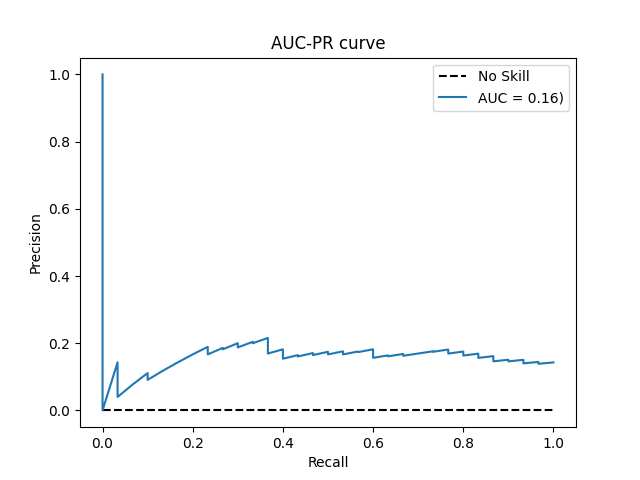
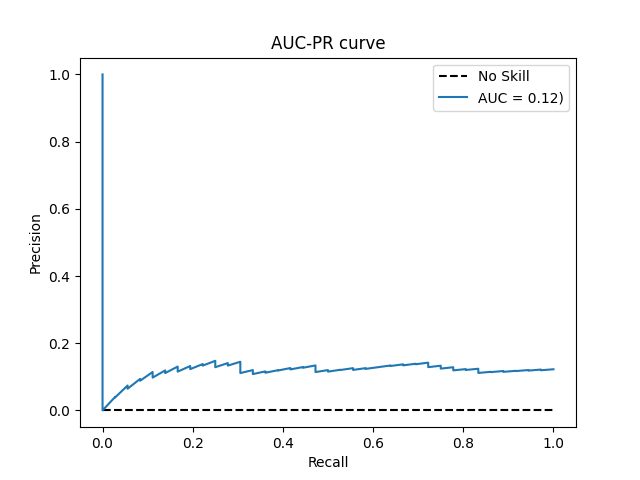
Bug inferencia imagenes recaida arreglado

Changed region(s): [[0.1562, 0.6875, 0.875, 0.8438], [0.8438, 0.1875, 0.875, 0.2188]]

diff --git a/patient_status/relapse_status/training_codes/image/image_relapse_prediction.py b/patient_status/relapse_status/training_codes/image/image_relapse_prediction.py
@@ -248,7 +248,7 @@ model.compile(loss = 'binary_crossentropy', # Esta función de loss suele usarse
               metrics = metrics)
 
 """ Se implementa un callback: para guardar el mejor modelo que tenga la mayor sensibilidad en la validación. """
-checkpoint_path = 'model_image_relapse_prediction_epoch{epoch:02d}.h5'
+checkpoint_path = '../../training_codes/image/model_image_relapse_prediction.h5'
 mcp_save = ModelCheckpoint(filepath= checkpoint_path, save_best_only = False)
 
 """ Esto se hace para que al hacer el entrenamiento, los pesos de las distintas salidas se balaceen, ya que el conjunto
@@ -261,7 +261,7 @@ class_weight_dict = dict(enumerate(class_weights))
 """ Una vez definido y compilado el modelo, es hora de entrenarlo. """
 neural_network = model.fit(x = train_image_data,  # Datos de entrada.
                            y = train_labels,  # Datos objetivos.
-                           epochs = 3,
+                           epochs = 1,
                            verbose = 1,
                            batch_size= 32,
                            class_weight= class_weight_dict,

diff --git a/patient_status/relapse_status/inference/image/inference/image_relapse_inference.py b/patient_status/relapse_status/inference/image/inference/image_relapse_inference.py
@@ -20,7 +20,7 @@ alto = 315 # 630
 ancho = 740 # 1480
 canales = 3 # Imágenes a color (RGB) = 3
 
-model = load_model('/home/avalderas/img_slides/patient_status/relapse_status/inference/image/test_data&models/model_image_relapse_prediction_epoch03.h5')
+model = load_model('/home/avalderas/img_slides/patient_status/relapse_status/inference/image/test_data&models/model_image_relapse_prediction.h5')
 
 test_image_data = np.load('/home/avalderas/img_slides/patient_status/relapse_status/inference/image/test_data&models/test_image.npy')
 test_labels = np.load('/home/avalderas/img_slides/patient_status/relapse_status/inference/image/test_data&models/test_labels.npy')
